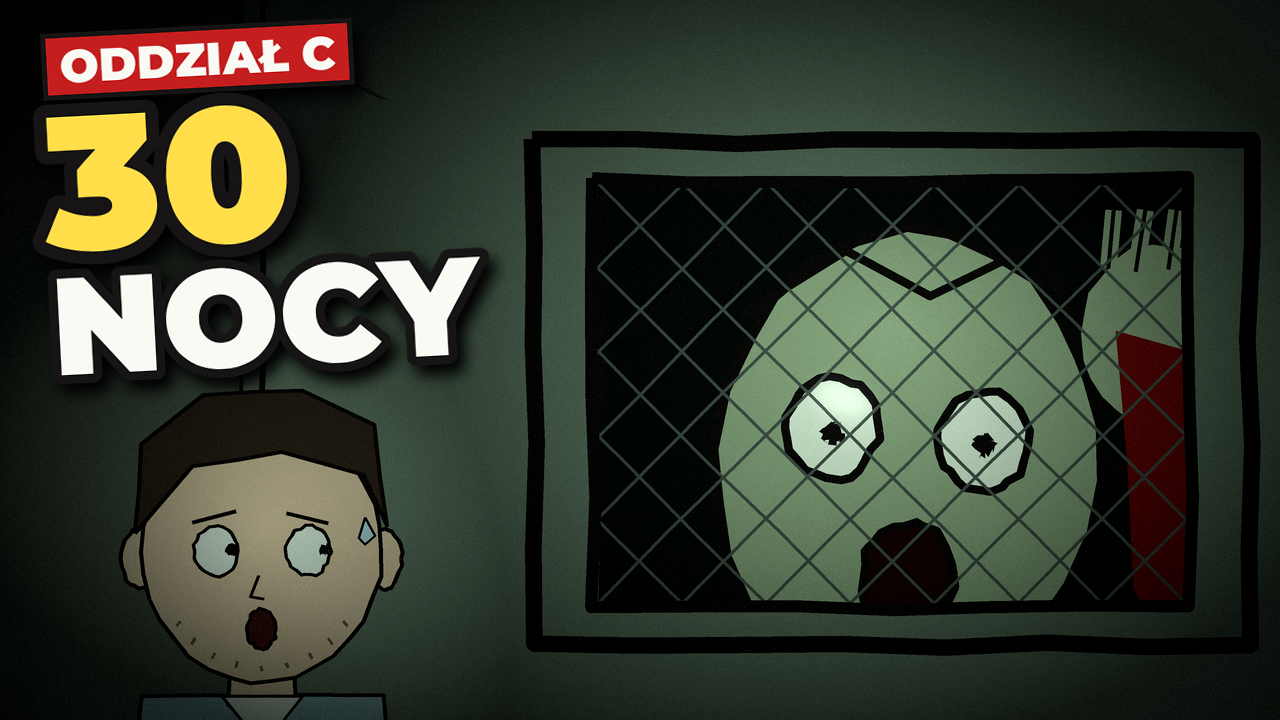
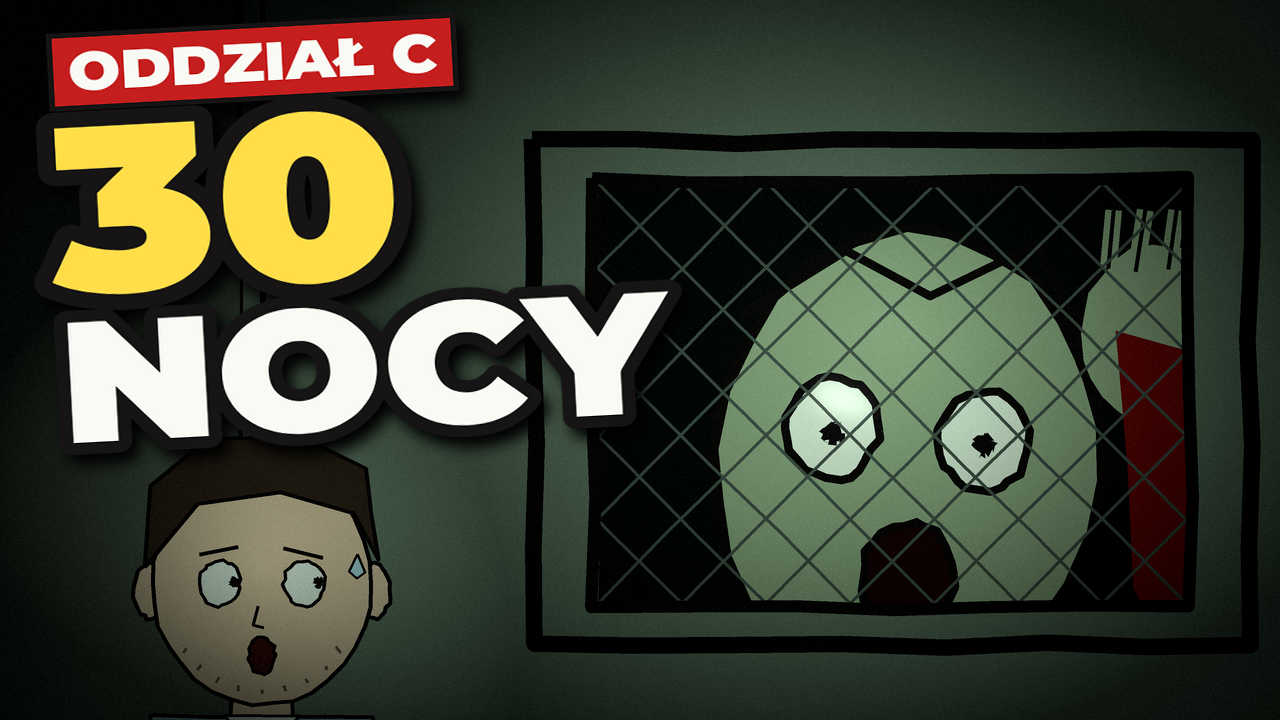
Miniatura 1 (izolatka): większe i szersze litery
„30” i „NOCY” powiększone o ok. 1/4 i poszerzone o 14 %, tabliczka „ODDZIAŁ C” większa;
sanitariusz niżej i odrobinę mniejszy, żeby napis go nie zasłaniał.

Claude-Session: https://claude.ai/code/session_011dRQgJiCfXuhrYiQLQ8rdu

Changed region(s): [[0.0312, 0.0, 0.5312, 1.0]]

diff --git a/output/zombie-psychiatryk/miniatura.py b/output/zombie-psychiatryk/miniatura.py
@@ -69,21 +69,22 @@ def font(size):
     return f
 
 
-def titles(img, big1, big2, side="l", tag="ODDZIAŁ C", width=500):
+def titles(img, big1, big2, side="l", tag="ODDZIAŁ C", width=500, sizes=(190, 138), tag_size=46, stretch=1.0):
     """Napisy: czerwona tabliczka z tytułem i dwa duże wiersze z grubym konturem, lekko przekrzywione.
-    side — róg kadru: „l” lewy górny, „r” prawy górny; width — najszersze miejsce na napis."""
+    side — róg kadru: „l” lewy górny, „r” prawy górny; width — najszersze miejsce na napis (przed rozciągnięciem);
+    sizes — wysokość pisma obu wierszy; stretch — poszerzenie liter w poziomie."""
     layer = Image.new("RGBA", (W, H), (0, 0, 0, 0))
     d = ImageDraw.Draw(layer)
     left = side == "l"
     x, y = (40 if left else W - 40), 34
     if tag:
-        f = font(46)
-        w = d.textlength(tag, font=f) + 36
+        f = font(tag_size)
+        w, h = d.textlength(tag, font=f) + 36, round(tag_size * 1.43)
         x0 = x if left else x - w
-        d.rectangle([x0, y, x0 + w, y + 66], fill=RED, outline=R.INK, width=5)
-        d.text((x0 + 18, y + 33), tag, font=f, fill=WHITE, anchor="lm")
-        y += 66 + 14
-    for txt, size, col in ((big1, 190, YELLOW), (big2, 138, WHITE)):
+        d.rectangle([x0, y, x0 + w, y + h], fill=RED, outline=R.INK, width=5)
+        d.text((x0 + 18, y + h / 2), tag, font=f, fill=WHITE, anchor="lm")
+        y += h + 14
+    for txt, size, col in ((big1, sizes[0], YELLOW), (big2, sizes[1], WHITE)):
         if not txt:
             continue
         f = font(size)
@@ -94,6 +95,10 @@ def titles(img, big1, big2, side="l", tag="ODDZIAŁ C", width=500):
         d.text((x - 4 if left else x + 4, y - top), txt, font=f, fill=col, anchor="ls" if left else "rs",
                stroke_width=max(7, size // 14), stroke_fill=R.INK)
         y += 26 - top
+    if stretch != 1.0:  # szersze litery: warstwa napisów rozciągnięta w poziomie od swojego rogu kadru
+        wide = layer.resize((round(W * stretch), H), Image.LANCZOS)
+        layer = wide.crop((0, 0, W, H) if left else (wide.width - W, 0, wide.width, H))
+        x = x * stretch if left else W - (W - x) * stretch
     layer = layer.rotate(3.0 if left else -3.0, resample=Image.BICUBIC, center=(x, 34))
     shadow = Image.new("RGBA", (W, H), (0, 0, 0, 0))
     shadow.paste((0, 0, 0, 255), (8, 10), layer.split()[3])
@@ -116,9 +121,10 @@ def izolatka():
     p.rect(812, 100, 950, 380, DOOR, w=0, amp=0)
     p.line([(340, 0), (340, 720)], w=3)
     p.rect(470, 120, 810, 360, None, w=8)
-    R.nurse_face(R.Pen(img, 0.3), 262, 545, 1.0, 1.0, 0.3, gaze=(1.0, -0.15))
-    img = light(small(img), R.GRADE[2], [(900, 330, 600, 1.0), (262, 535, 330, 0.9)])
-    return titles(img, "30", "NOCY")
+    R.nurse_face(R.Pen(img, 0.3), 262, 578, 0.92, 1.0, 0.3, gaze=(1.0, -0.15))
+    img = light(small(img), R.GRADE[2], [(900, 330, 600, 1.0), (262, 568, 330, 0.9)])
+    # duże, poszerzone litery; „NOCY” wchodzi na ramę i ciemną część okienka, nie na twarz pana Henryka
+    return titles(img, "30", "NOCY", width=560, sizes=(236, 172), tag_size=54, stretch=1.14)
 
 
 def korytarz():
